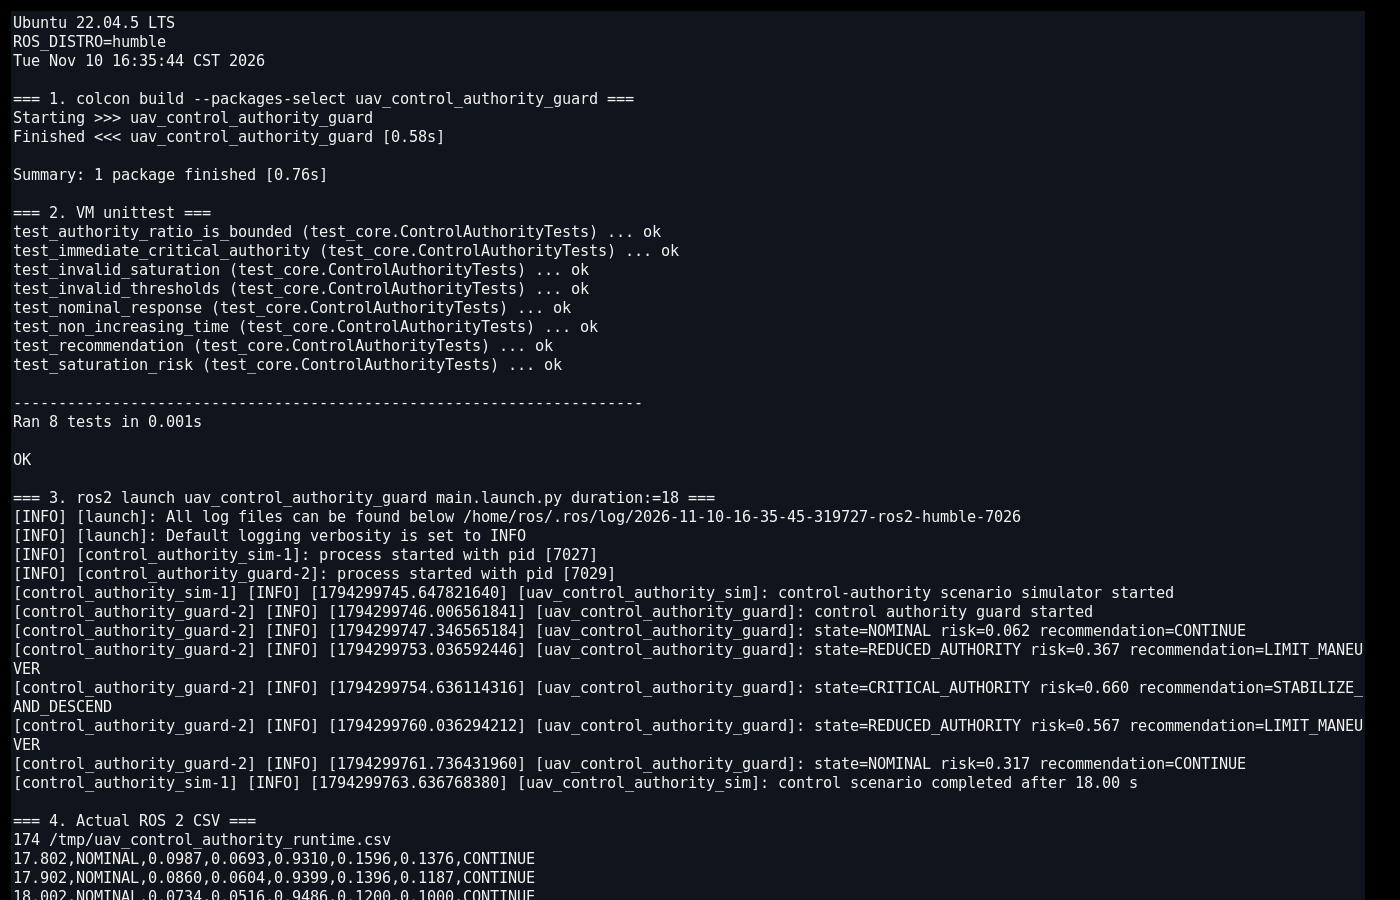
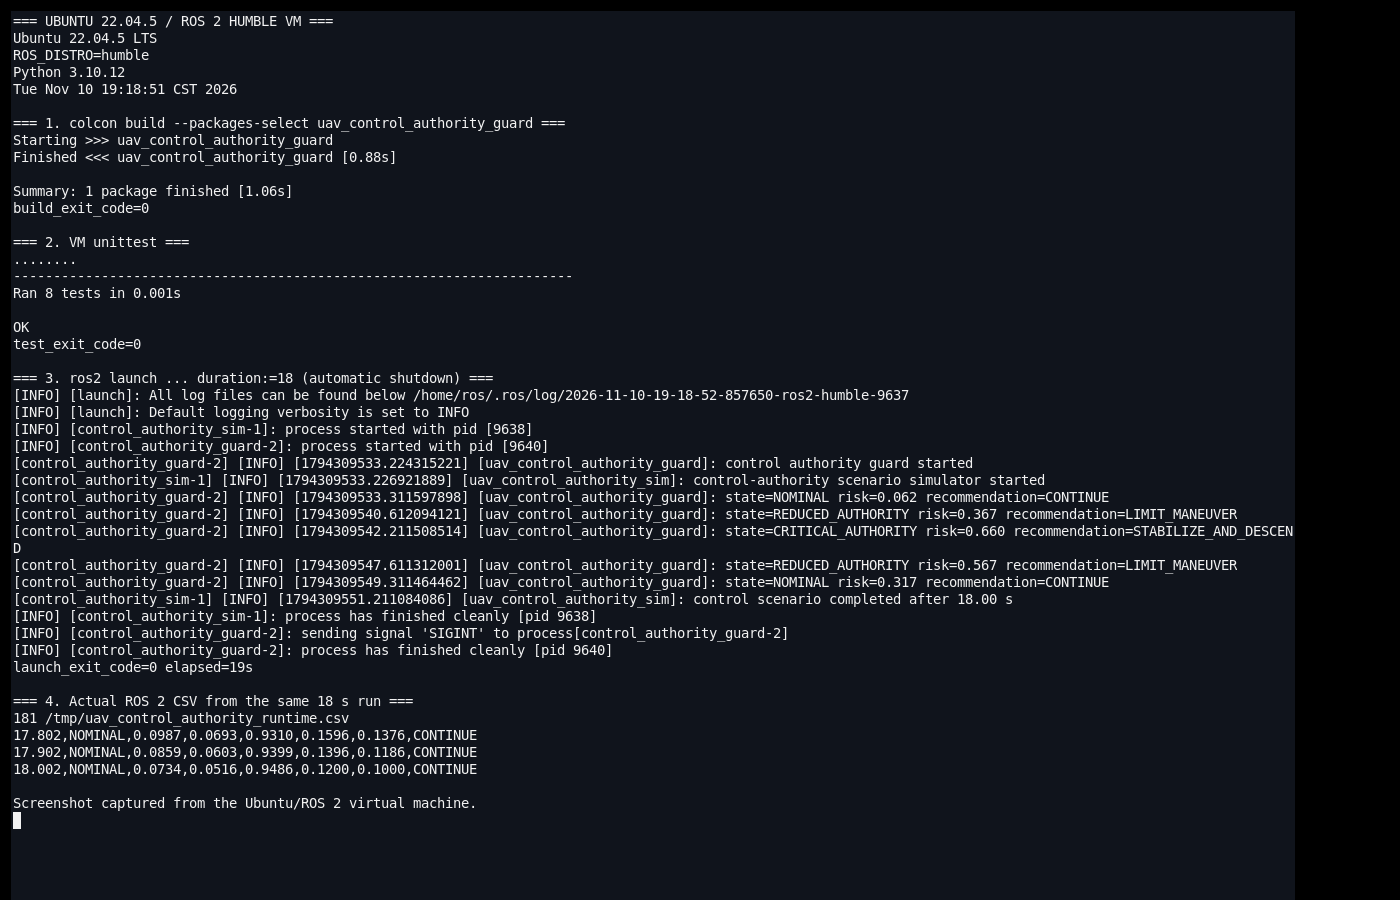
fix(air): 完善控制权限监测复现与自动退出

Changed region(s): [[0.0, 0.0, 0.9829, 1.0], [0.4914, 0.4356, 0.645, 0.4667], [0.4607, 0.2489, 0.4914, 0.28]]

diff --git a/src/air/uav_control_authority_guard/launch/main.launch.py b/src/air/uav_control_authority_guard/launch/main.launch.py
@@ -2,7 +2,9 @@ import os
 
 from ament_index_python.packages import get_package_share_directory
 from launch import LaunchDescription
-from launch.actions import DeclareLaunchArgument
+from launch.actions import DeclareLaunchArgument, EmitEvent, RegisterEventHandler
+from launch.event_handlers import OnProcessExit
+from launch.events import Shutdown
 from launch.substitutions import LaunchConfiguration
 from launch_ros.actions import Node
 from launch_ros.parameter_descriptions import ParameterValue
@@ -12,29 +14,43 @@ def generate_launch_description():
     config = os.path.join(
         get_package_share_directory("uav_control_authority_guard"), "config", "demo.yaml"
     )
+    simulator = Node(
+        package="uav_control_authority_guard",
+        executable="control_authority_sim",
+        name="uav_control_authority_sim",
+        output="screen",
+        parameters=[
+            config,
+            {
+                "duration_s": ParameterValue(
+                    LaunchConfiguration("duration"), value_type=float
+                )
+            },
+        ],
+    )
+    guard = Node(
+        package="uav_control_authority_guard",
+        executable="control_authority_guard",
+        name="uav_control_authority_guard",
+        output="screen",
+        parameters=[config],
+    )
     return LaunchDescription(
         [
             DeclareLaunchArgument("duration", default_value="0.0"),
-            Node(
-                package="uav_control_authority_guard",
-                executable="control_authority_sim",
-                name="uav_control_authority_sim",
-                output="screen",
-                parameters=[
-                    config,
-                    {
-                        "duration_s": ParameterValue(
-                            LaunchConfiguration("duration"), value_type=float
+            simulator,
+            guard,
+            RegisterEventHandler(
+                OnProcessExit(
+                    target_action=simulator,
+                    on_exit=[
+                        EmitEvent(
+                            event=Shutdown(
+                                reason="control authority scenario reached its duration"
+                            )
                         )
-                    },
-                ],
-            ),
-            Node(
-                package="uav_control_authority_guard",
-                executable="control_authority_guard",
-                name="uav_control_authority_guard",
-                output="screen",
-                parameters=[config],
+                    ],
+                )
             ),
         ]
     )

diff --git a/src/air/uav_control_authority_guard/uav_control_authority_guard/nodes.py b/src/air/uav_control_authority_guard/uav_control_authority_guard/nodes.py
@@ -5,7 +5,9 @@ from __future__ import annotations
 from dataclasses import asdict
 import csv
 import json
+import os
 from pathlib import Path
+import signal
 
 import rclpy
 from rclpy.node import Node
@@ -35,7 +37,7 @@ class ControlAuthoritySimulator(Node):
         )
         if self.duration_s > 0.0 and elapsed >= self.duration_s:
             self.get_logger().info(f"control scenario completed after {elapsed:.2f} s")
-            rclpy.shutdown()
+            os.kill(os.getpid(), signal.SIGINT)
 
 
 class ControlAuthorityGuardNode(Node):

diff --git a/src/air/uav_control_authority_guard/README.md b/src/air/uav_control_authority_guard/README.md
@@ -4,6 +4,19 @@ ROS 2 monitor for reduced control authority, motor saturation and integrator
 windup. It compares commanded and achieved roll/pitch rates with actuator
 saturation, integrator magnitude and minimum cell voltage.
 
+## Reproducible environment
+
+- Ubuntu 22.04.5 LTS
+- ROS 2 Humble
+- Python 3.10.12
+
+Install declared ROS dependencies from the workspace root:
+
+```bash
+sudo apt update
+rosdep install --from-paths src --ignore-src -r -y
+```
+
 ```bash
 source /opt/ros/humble/setup.bash
 colcon build --symlink-install --packages-select uav_control_authority_guard
@@ -11,10 +24,32 @@ source install/setup.bash
 ros2 launch uav_control_authority_guard main.launch.py duration:=18
 ```
 
-Topics:
+`duration` is the simulator run time in seconds. With a positive value, the
+simulator exits when that duration is reached and the launch file shuts down
+both nodes automatically. With the default `duration:=0.0`, stop the
+continuously running demo with `Ctrl+C`.
+
+Run the eight unit tests from the package source directory:
+
+```bash
+PYTHONPATH=. python3 -m unittest discover -s tests -v
+```
+
+The CSV defaults to `/tmp/uav_control_authority_runtime.csv`.
+
+## ROS 2 topics
 
 - `/uav_control/authority_sample`: simulated command, response and actuator data.
 - `/uav_control/authority_assessment`: authority, saturation and windup risk.
 - `/uav_control/authority_advice`: maneuver limit or stabilization recommendation.
+
+The input topic accepts JSON with `timestamp_s`,
+`commanded_roll_rate_deg_s`, `actual_roll_rate_deg_s`,
+`commanded_pitch_rate_deg_s`, `actual_pitch_rate_deg_s`,
+`motor_saturation_ratio`, `integrator_ratio`, and `min_cell_voltage_v`.
+
+The CSV columns are `time_s`, `state`, `risk`, `tracking_error_ratio`,
+`authority_ratio`, `saturation_ratio`, `integrator_ratio`, and
+`recommendation`.
 
 The package is advisory only and does not send arming, attitude or motor commands.

diff --git a/docs/air/uav_control_authority_guard.md b/docs/air/uav_control_authority_guard.md
@@ -41,6 +41,8 @@ ros2 launch uav_control_authority_guard main.launch.py duration:=18
 
 CSV 默认写入 `/tmp/uav_control_authority_runtime.csv`。
 
+当 `duration` 大于 0 时，模拟器结束会触发整个 launch 自动关闭；默认 `duration:=0.0` 表示持续运行，此时使用 `Ctrl+C` 手动停止。
+
 ## 4. Humble 虚拟机实测
 
 Ubuntu 22.04.5 / ROS 2 Humble 下真实构建成功，VM 内 8 项 `unittest` 全部通过。`ros2 launch` 启动两个节点，运行 18 秒并记录 180 条状态。
